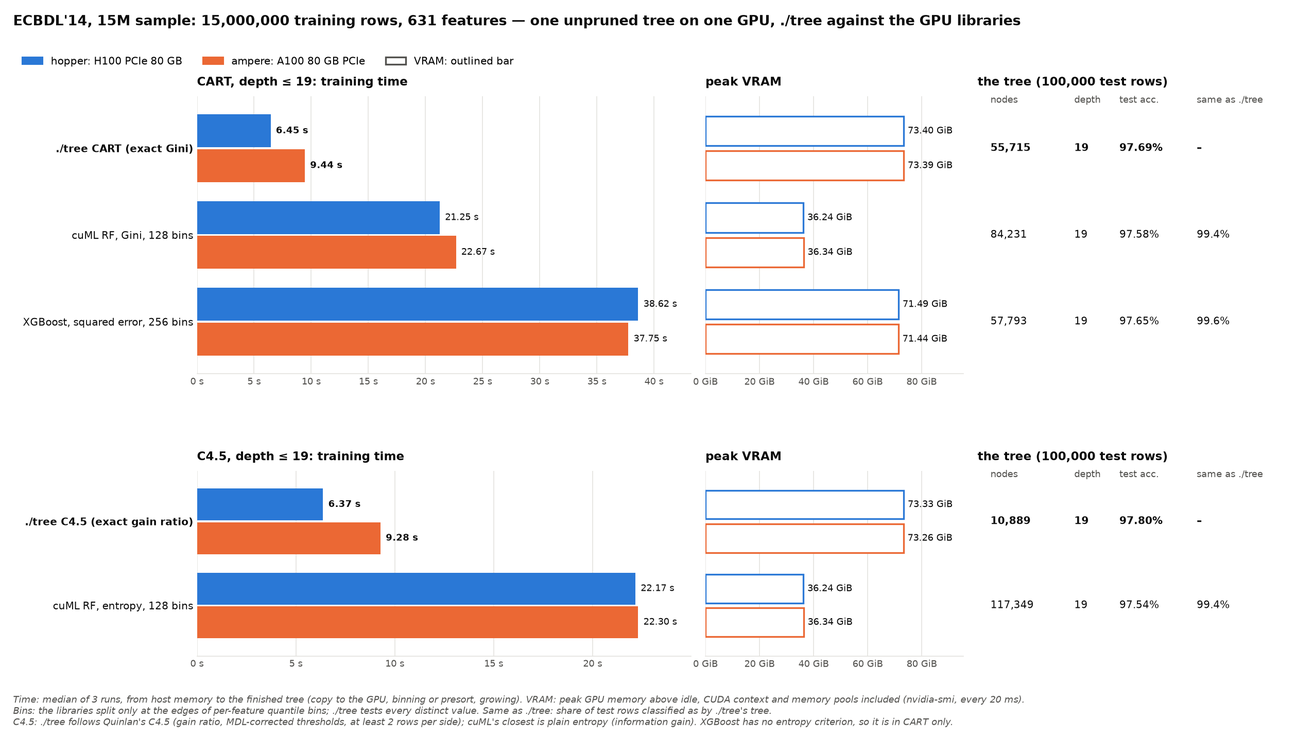
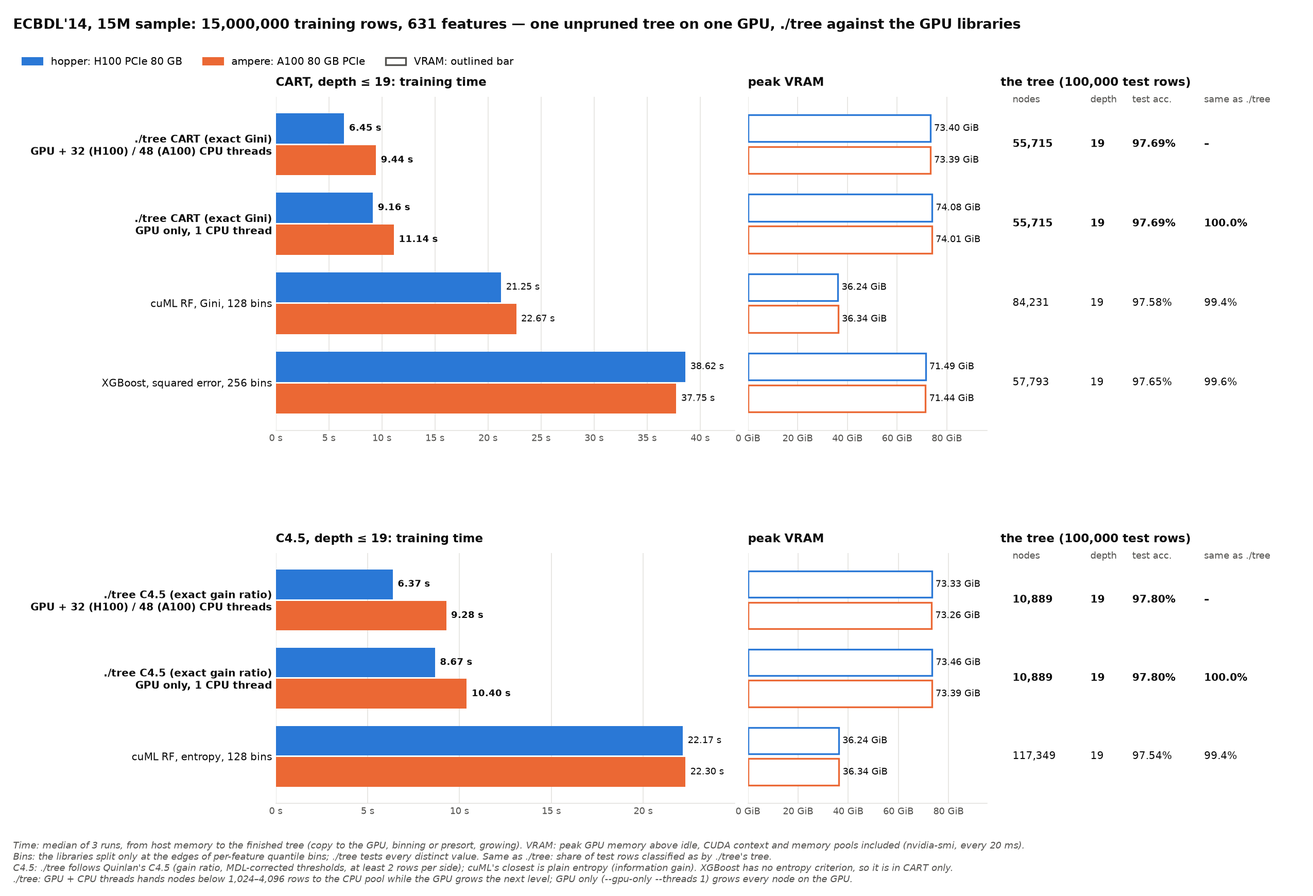
cluster-tree-vs-gpu-libs: ./tree GPU only (--gpu-only --threads 1) under ./tree
New rows on 7b51a89 for HIGGS, airline, ECBDL 15M and chess 1000M on hopper
and ampere; the existing rows were not rerun. Same trees, 1.1-2.5x slower than
GPU + 32/48 CPU threads. Charts and summary.csv regenerated.

diff --git a/bench/results/cluster-tree-vs-gpu-libs/scripts/summarize.py b/bench/results/cluster-tree-vs-gpu-libs/scripts/summarize.py
@@ -7,6 +7,9 @@
 
 Agreement: share of the test rows (TEST_ROWS) that a tree classifies like
 ./tree's tree of the same case on the same node.
+
+./tree has two rows: "tree" (the GPU with all the node's CPU threads, which
+finish the small nodes) and "tree_gpu" (--gpu-only --threads 1).
 """
 import csv, json, statistics, sys
 from pathlib import Path
@@ -24,12 +27,20 @@ DATASETS = {"higgs": "HIGGS: 10,500,000 training rows, 28 features",
 TEST_ROWS = {"higgs": 500_000, "airline": 500_000, "ecbdl_15m": 100_000, "chess_1b": 1_000}
 NODES = {"hopper": "H100 PCIe 80 GB", "ampere": "A100 80 GB PCIe"}
 CASES = {"cart": "CART, depth ≤ 19", "c45": "C4.5, depth ≤ 19"}
-LABELS = {("tree", "cart"): "./tree CART (exact Gini)",
+SPLIT = "GPU + 32 (H100) / 48 (A100) CPU threads"
+GPU_ONLY = "GPU only, 1 CPU thread"
+LABELS = {("tree", "cart"): f"./tree CART (exact Gini)\n{SPLIT}",
+          ("tree_gpu", "cart"): f"./tree CART (exact Gini)\n{GPU_ONLY}",
           ("cuml", "cart"): "cuML RF, Gini, 128 bins",
           ("xgboost", "cart"): "XGBoost, squared error, 256 bins",
-          ("tree", "c45"): "./tree C4.5 (exact gain ratio)",
+          ("tree", "c45"): f"./tree C4.5 (exact gain ratio)\n{SPLIT}",
+          ("tree_gpu", "c45"): f"./tree C4.5 (exact gain ratio)\n{GPU_ONLY}",
           ("cuml", "c45"): "cuML RF, entropy, 128 bins"}
-IMPLS = ["tree", "cuml", "xgboost"]
+IMPLS = ["tree", "tree_gpu", "cuml", "xgboost"]
+
+
+def is_tree(impl):
+    return impl.startswith("tree")
 INK, MUTED, GRID = "#0b0b0b", "#52514e", "#e4e3df"
 COLORS = {"hopper": "#2a78d6", "ampere": "#eb6834"}
 
@@ -48,7 +59,8 @@ def load_rows(root):
                 last = rs[-1]
                 times = [r["train_seconds"] for r in rs]
                 row = {"dataset": dataset, "node": node, "impl": impl, "case": case,
-                       "bins": last["bins"], "label": LABELS[(impl, case)], "runs": len(rs),
+                       "bins": last["bins"], "label": LABELS[(impl, case)].replace("\n", ", "),
+                       "runs": len(rs),
                        "median_s": statistics.median(times), "min_s": min(times),
                        "max_s": max(times),
                        **{k: last.get(k) for k in ("nodes", "depth", "train_accuracy",
@@ -88,7 +100,7 @@ def tables(rows):
                 def mem(r):
                     return "–" if r is None else f"{r['gpu_peak_mib'] / 1024:.2f} GiB"
                 agree = ref.get("agreement")
-                md.append(f"| {LABELS[(impl, case)]} | {t(h)} | {t(a)} | {ref['nodes']:,} | "
+                md.append(f"| {LABELS[(impl, case)].replace(chr(10), ', ')} | {t(h)} | {t(a)} | {ref['nodes']:,} | "
                           f"{ref['depth']} | {100 * ref['train_accuracy']:.2f}% | "
                           f"{100 * ref['test_accuracy']:.2f}% | "
                           f"{'–' if agree is None else f'{100 * agree:.2f}%'} | "
@@ -112,7 +124,7 @@ def chart(rows, dataset, path):
     the same on both GPUs)."""
     cases = [c for c in CASES if any(r["dataset"] == dataset and r["case"] == c for r in rows)]
     heights = [len([i for i in IMPLS if (i, c) in LABELS]) for c in cases]
-    fig = plt.figure(figsize=(17, 2.2 + 0.95 * sum(heights) + 1.3 * len(cases)))
+    fig = plt.figure(figsize=(17, 2.35 + 0.95 * sum(heights) + 1.3 * len(cases)))
     grid = fig.add_gridspec(len(cases), 3, width_ratios=(1.15, 0.6, 0.75), wspace=0.04,
                             hspace=0.42, height_ratios=heights)
     dr = [r for r in rows if r["dataset"] == dataset]
@@ -135,7 +147,7 @@ def chart(rows, dataset, path):
                 v = got[k]["median_s"]
                 ax.barh(p, v, height=0.38, color=COLORS[node])
                 ax.text(v + tmax * 0.012, p, f"{v:.2f} s", va="center", fontsize=8.5, color=INK,
-                        fontweight="bold" if k == "tree" else "normal")
+                        fontweight="bold" if is_tree(k) else "normal")
                 g = got[k]["gpu_peak_mib"] / 1024
                 mem.barh(p, g, height=0.34, facecolor="white", edgecolor=COLORS[node],
                          linewidth=1.6)
@@ -146,7 +158,7 @@ def chart(rows, dataset, path):
         style(ax)
         ax.set_yticks(y, [LABELS[(k, case)] for k in keys], fontsize=9.5, color=INK)
         for label, k in zip(ax.get_yticklabels(), keys):
-            label.set_fontweight("bold" if k == "tree" else "normal")
+            label.set_fontweight("bold" if is_tree(k) else "normal")
             label.set_color(INK)
         ax.set_title(f"{CASES[case]}: training time", loc="left", fontsize=11, color=INK,
                      fontweight="bold", pad=10)
@@ -170,7 +182,7 @@ def chart(rows, dataset, path):
             for k, p in zip(keys, y):
                 info.text(x, p, cell(got[k]), fontsize=9.5, color=INK, ha="left", va="center",
                           transform=info.get_yaxis_transform(),
-                          fontweight="bold" if k == "tree" else "normal")
+                          fontweight="bold" if is_tree(k) else "normal")
         info.set_title(f"the tree ({TEST_ROWS[dataset]:,} test rows)", loc="left", fontsize=11, color=INK,
                        fontweight="bold", pad=10)
         info.axis("off")
@@ -190,10 +202,12 @@ def chart(rows, dataset, path):
              "every distinct value. Same as ./tree: share of test rows classified as by ./tree's tree.\n"
              "C4.5: ./tree follows Quinlan's C4.5 (gain ratio, MDL-corrected thresholds, at least 2 rows "
              "per side); cuML's closest is plain entropy (information gain). XGBoost has no entropy "
-             "criterion, so it is in CART only.",
+             "criterion, so it is in CART only.\n./tree: GPU + CPU threads hands nodes below 1,024–4,096 "
+             "rows to the CPU pool while the GPU grows the next level; GPU only (--gpu-only --threads 1) "
+             "grows every node on the GPU.",
              fontsize=8.5, color=MUTED, style="italic", va="bottom")
-    fig.subplots_adjust(left=0.15, right=0.99, top=1 - 1.25 / fig.get_figheight(),
-                        bottom=1.05 / fig.get_figheight())
+    fig.subplots_adjust(left=0.21, right=0.99, top=1 - 1.25 / fig.get_figheight(),
+                        bottom=1.2 / fig.get_figheight())
     fig.savefig(path, dpi=150)
     plt.close(fig)
 

diff --git a/bench/results/cluster-tree-vs-gpu-libs/scripts/treebench.py b/bench/results/cluster-tree-vs-gpu-libs/scripts/treebench.py
@@ -3,9 +3,12 @@
 to OUT. The last run dumps the tree; its test predictions are saved for the
 agreement table.
 
-  treebench.py TREE DATASET CASE REPS OUT PRED_DIR SCRATCH
+  treebench.py TREE DATASET CASE REPS OUT PRED_DIR SCRATCH [MODE]
     DATASET  higgs | airline | ecbdl_15m | chess_1b   (prepared in $DATA_ROOT/<dataset>)
     CASE     cart | c45        depth <= 19, no pruning
+    MODE     split (default, impl "tree"): the GPU with all CPU threads, which
+             finish the small nodes; gpu (impl "tree_gpu"): --gpu-only
+             --threads 1, every node on the GPU and one CPU thread
 """
 import json, os, re, socket, subprocess, sys, time
 import numpy as np
@@ -15,6 +18,8 @@ from gpubench import DATA_ROOT, DEPTH, GpuMemory, load  # noqa: E402
 
 FLAGS = {"cart": ["--cart", "--no-prune", "-d", str(DEPTH)],
          "c45": ["--c45", "--no-prune", "-d", str(DEPTH)]}
+MODES = {"split": ("tree", lambda: ["--threads", str(os.cpu_count())]),
+         "gpu": ("tree_gpu", lambda: ["--gpu-only", "--threads", "1"])}
 
 
 def parse_dump(path):
@@ -63,18 +68,18 @@ def predict(tree, X):
 
 def main():
     binary, dataset, case, reps, out, pred_dir, scratch = sys.argv[1:8]
-    threads = str(os.cpu_count())
-    dump = f"{scratch}/tree-{case}.dump"
+    impl, mode_flags = MODES[sys.argv[8] if len(sys.argv) > 8 else "split"]
+    dump = f"{scratch}/{impl}-{case}.dump"
     for rep in range(int(reps)):
         last = rep == int(reps) - 1
-        argv = [binary, "--cuda", "--threads", threads] + FLAGS[case] \
+        argv = [binary, "--cuda"] + mode_flags() + FLAGS[case] \
             + (["--dump", dump] if last else []) + [f"{DATA_ROOT}/{dataset}/train.csv"]
         gpu = GpuMemory()
         stdout = subprocess.run(argv, capture_output=True, text=True, check=True).stdout
         peak = gpu.stop()
         nodes, leaves, depth = map(int, re.search(r"nodes (\d+), leaves (\d+), depth (\d+)",
                                                   stdout).groups())
-        row = {"impl": "tree", "dataset": dataset, "case": case, "bins": "exact", "rep": rep,
+        row = {"impl": impl, "dataset": dataset, "case": case, "bins": "exact", "rep": rep,
                "train_seconds": float(re.search(r"train total\s+([\d.]+) ms", stdout).group(1)) / 1000,
                **{f"{k.replace(' ', '_')}_seconds": float(ms) / 1000 for k, ms in
                   re.findall(r"^  (gpu setup|presort|build|prune)\s+([\d.]+) ms$", stdout, re.M)},
@@ -86,7 +91,7 @@ def main():
             tree = parse_dump(dump)
             Xt, yt = load(dataset, "test")
             pred = predict(tree, Xt).astype(np.int8)
-            np.save(f"{pred_dir}/tree-{case}.npy", pred)
+            np.save(f"{pred_dir}/{impl}-{case}.npy", pred)
             row["test_accuracy"] = float(np.mean(pred == yt))
             f, t = tree[0][0], tree[1][0]
             row["root"] = f"f{f} <= {t:.7g}"

diff --git a/bench/results/cluster-tree-vs-gpu-libs/BENCHMARK.md b/bench/results/cluster-tree-vs-gpu-libs/BENCHMARK.md
@@ -1,6 +1,6 @@
 # HIGGS, airline, ECBDL'14 and chess 1000M on the mordor3 GPUs: ./tree against other GPU decision-tree builders
 
-**Status:** run on 2026-10-17, 3 runs per case. The libraries ran from 12:44 with ./tree at commit 00ae13f; **./tree's rows were rerun on 2026-10-19 (20:12–20:15) on 6f6cecb** (one copy of the presorted columns on the GPU, [docs/PERFORMANCE.md](../../../docs/PERFORMANCE.md); hand-offs through page-locked buffers instead of a page-locked arena; the host partition in blocks, d9da007), built for sm_80 and sm_90 in a separate clone (`~/gpu-dt-bench/dt`). The trees are the same as before, node for node, and so are the test predictions; `machine.json` → `tree_rerun` records the rerun. Against the previous rerun (cd18717, 2026-10-17 17:54) ./tree's times moved within −3.5% to +2.3%. Both GPU servers ran CUDA only, on GPU 0, with the whole node held through `--exclusive`. **ECBDL'14's 15M-row sample was added on 2026-10-18** (15:19–15:27, one job per node, the libraries with ./tree on cd18717 in the same job, 3 runs per case; ./tree's rows rerun with the others on 051949b). **Chess 3×3 with 1000M rows was added on 2026-10-19** (21:42–21:53, one job per node, everything in the same job, ./tree on f00ab72, the same code as 6f6cecb; 3 runs per case). **One unpruned tree with depth ≤ 19 per case, CART and C4.5, on HIGGS, airline, ECBDL and chess.** 19 is the depth of ./tree's pruned CART tree on HIGGS. Each library runs with its default bins, its faster setting; the earlier 1024-bin runs were slower and agreed with ./tree only 1–2 points more.
+**Status:** run on 2026-10-17, 3 runs per case. The libraries ran from 12:44 with ./tree at commit 00ae13f; **./tree's rows were rerun on 2026-10-19 (20:12–20:15) on 6f6cecb** (one copy of the presorted columns on the GPU, [docs/PERFORMANCE.md](../../../docs/PERFORMANCE.md); hand-offs through page-locked buffers instead of a page-locked arena; the host partition in blocks, d9da007), built for sm_80 and sm_90 in a separate clone (`~/gpu-dt-bench/dt`). The trees are the same as before, node for node, and so are the test predictions; `machine.json` → `tree_rerun` records the rerun. Against the previous rerun (cd18717, 2026-10-17 17:54) ./tree's times moved within −3.5% to +2.3%. Both GPU servers ran CUDA only, on GPU 0, with the whole node held through `--exclusive`. **ECBDL'14's 15M-row sample was added on 2026-10-18** (15:19–15:27, one job per node, the libraries with ./tree on cd18717 in the same job, 3 runs per case; ./tree's rows rerun with the others on 051949b). **Chess 3×3 with 1000M rows was added on 2026-10-19** (21:42–21:53, one job per node, everything in the same job, ./tree on f00ab72, the same code as 6f6cecb; 3 runs per case). **./tree GPU only (`--gpu-only --threads 1`) was added on 2026-10-19** (22:08–22:48, one job per node, all four datasets, 3 runs per case, ./tree on 7b51a89; the other rows were not rerun; `machine.json` → `tree_gpu_run`): the row under ./tree's in every table and chart, which is now labelled GPU + 32 (H100) / 48 (A100) CPU threads. **One unpruned tree with depth ≤ 19 per case, CART and C4.5, on HIGGS, airline, ECBDL and chess.** 19 is the depth of ./tree's pruned CART tree on HIGGS. Each library runs with its default bins, its faster setting; the earlier 1024-bin runs were slower and agreed with ./tree only 1–2 points more.
 
 **Bottom line:** ./tree is the fastest single-tree GPU builder found, and the only one with exact splits.
 - **Against cuML (the fastest of the others):** 2.4–2.7× faster on HIGGS, 2.7–3.7× on airline, 2.4–3.5× on ECBDL and 7.0–10.3× on chess 1000M, for CART and for C4.5 against cuML's entropy tree.
@@ -8,6 +8,7 @@
 - **Chess 1000M (2 features, 10^9 rows):** ./tree builds the exact 17-node board tree in 0.90 s (H100) and 1.76 s (A100) with 25.4 GiB of VRAM; cuML takes 9.3 and 12.5 s, XGBoost 106 and 138 s, both with 42–44 GiB, and their binned trees fill all 19 levels (1,009–1,919 nodes) at 98.4–99.4% test accuracy.
 - **CART test accuracy is the same within 0.3 points.** The histogram trees classify 83–91% of test rows the same as ./tree's exact tree on HIGGS and airline, 99.4–99.6% on ECBDL (mostly its 97.8% majority class).
 - **C4.5 is a different algorithm from cuML's entropy tree.** ./tree's C4.5 (gain ratio) builds a smaller tree at the same depth limit, with 1.2–3.1 points lower test accuracy (below).
+- **GPU only, 1 CPU thread** (`--gpu-only --threads 1`, every node on the GPU): the same trees, node for node (100% the same test predictions), 1.1–2.5× slower than with the CPU threads, and still 1.5–4.5× faster than cuML.
 - **Memory:** ./tree uses 3.3–3.4 GiB on HIGGS and 13.3 GiB on airline, against 1.9–2.9 GiB and 9.5–13 GiB for the libraries: 1.8× cuML on HIGGS, 1.3–1.4× cuML and about the same as XGBoost on airline. Before cd18717 it used 7.2 and 35 GiB. On ECBDL ./tree fills 73.3–73.4 GiB of the 80 GB, against 36 GiB for cuML and 71.5 GiB for XGBoost.
 
 ![HIGGS: CART and C4.5 per GPU library, depth 19](chart-higgs.png)
@@ -69,7 +70,8 @@ Median of 3 runs (min–max). The node count, depth and accuracies are for the l
 
 | Implementation | H100 time | A100 time | Nodes | Depth | Train acc. | Test acc. | Same as ./tree | VRAM H100 | VRAM A100 | Root split |
 |---|--:|--:|--:|--:|--:|--:|--:|--:|--:|---|
-| ./tree CART (exact Gini) | 0.35 s (0.35–0.37) | 0.45 s (0.44–0.53) | 302,341 | 19 | 77.85% | 71.74% | – | 3.36 GiB | 3.33 GiB | `f25 <= 1.077748` |
+| ./tree CART (exact Gini), GPU + 32 (H100) / 48 (A100) CPU threads | 0.35 s (0.35–0.37) | 0.45 s (0.44–0.53) | 302,341 | 19 | 77.85% | 71.74% | – | 3.36 GiB | 3.33 GiB | `f25 <= 1.077748` |
+| ./tree CART (exact Gini), GPU only, 1 CPU thread | 0.57 s (0.57–0.58) | 0.74 s (0.73–0.74) | 302,341 | 19 | 77.85% | 71.74% | 100.00% | 3.71 GiB | 3.67 GiB | `f25 <= 1.077748` |
 | cuML RF, Gini, 128 bins | 0.94 s (0.88–1.89) | 1.08 s (1.07–2.09) | 342,393 | 19 | 77.78% | 71.70% | 83.12% | 1.85 GiB | 1.91 GiB | `f25 <= 1.080328` |
 | XGBoost, squared error, 256 bins | 5.41 s (5.13–5.70) | 6.02 s (5.99–6.16) | 319,733 | 19 | 77.79% | 71.64% | 83.95% | 2.90 GiB | 2.86 GiB | `f25 < 1.075816` |
 
@@ -77,14 +79,16 @@ Median of 3 runs (min–max). The node count, depth and accuracies are for the l
 
 | Implementation | H100 time | A100 time | Nodes | Depth | Train acc. | Test acc. | Same as ./tree | VRAM H100 | VRAM A100 | Root split |
 |---|--:|--:|--:|--:|--:|--:|--:|--:|--:|---|
-| ./tree C4.5 (exact gain ratio) | 0.32 s (0.32–0.33) | 0.40 s (0.40–0.40) | 84,695 | 19 | 70.43% | 68.65% | – | 3.33 GiB | 3.30 GiB | `f25 <= 1.837873` |
+| ./tree C4.5 (exact gain ratio), GPU + 32 (H100) / 48 (A100) CPU threads | 0.32 s (0.32–0.33) | 0.40 s (0.40–0.40) | 84,695 | 19 | 70.43% | 68.65% | – | 3.33 GiB | 3.30 GiB | `f25 <= 1.837873` |
+| ./tree C4.5 (exact gain ratio), GPU only, 1 CPU thread | 0.45 s (0.45–0.45) | 0.56 s (0.56–0.57) | 84,695 | 19 | 70.43% | 68.65% | 100.00% | 3.52 GiB | 3.49 GiB | `f25 <= 1.837873` |
 | cuML RF, entropy, 128 bins | 0.87 s (0.87–1.76) | 1.03 s (1.03–2.02) | 292,477 | 19 | 76.73% | 71.76% | 76.72% | 1.85 GiB | 1.91 GiB | `f25 <= 1.080328` |
 
 ### airline: CART, depth ≤ 19
 
 | Implementation | H100 time | A100 time | Nodes | Depth | Train acc. | Test acc. | Same as ./tree | VRAM H100 | VRAM A100 | Root split |
 |---|--:|--:|--:|--:|--:|--:|--:|--:|--:|---|
-| ./tree CART (exact Gini) | 1.21 s (1.19–1.21) | 1.73 s (1.70–1.73) | 621,689 | 19 | 75.31% | 74.88% | – | 13.30 GiB | 13.28 GiB | `f8 <= 70.5` |
+| ./tree CART (exact Gini), GPU + 32 (H100) / 48 (A100) CPU threads | 1.21 s (1.19–1.21) | 1.73 s (1.70–1.73) | 621,689 | 19 | 75.31% | 74.88% | – | 13.30 GiB | 13.28 GiB | `f8 <= 70.5` |
+| ./tree CART (exact Gini), GPU only, 1 CPU thread | 1.63 s (1.62–1.64) | 2.07 s (2.06–2.07) | 621,689 | 19 | 75.31% | 74.88% | 100.00% | 13.68 GiB | 13.62 GiB | `f8 <= 70.5` |
 | cuML RF, Gini, 128 bins | 4.23 s (4.20–8.23) | 4.67 s (4.67–8.56) | 655,631 | 19 | 75.00% | 74.59% | 86.80% | 9.99 GiB | 9.45 GiB | `f8 <= 70` |
 | XGBoost, squared error, 256 bins | 20.40 s (20.21–20.58) | 24.69 s (24.54–24.85) | 641,161 | 19 | 75.20% | 74.76% | 90.80% | 13.00 GiB | 12.96 GiB | `f8 < 71` |
 
@@ -92,14 +96,16 @@ Median of 3 runs (min–max). The node count, depth and accuracies are for the l
 
 | Implementation | H100 time | A100 time | Nodes | Depth | Train acc. | Test acc. | Same as ./tree | VRAM H100 | VRAM A100 | Root split |
 |---|--:|--:|--:|--:|--:|--:|--:|--:|--:|---|
-| ./tree C4.5 (exact gain ratio) | 1.14 s (1.12–1.14) | 1.65 s (1.64–1.66) | 190,337 | 19 | 73.15% | 73.02% | – | 13.27 GiB | 13.25 GiB | `f8 <= 70` |
+| ./tree C4.5 (exact gain ratio), GPU + 32 (H100) / 48 (A100) CPU threads | 1.14 s (1.12–1.14) | 1.65 s (1.64–1.66) | 190,337 | 19 | 73.15% | 73.02% | – | 13.27 GiB | 13.25 GiB | `f8 <= 70` |
+| ./tree C4.5 (exact gain ratio), GPU only, 1 CPU thread | 1.62 s (1.60–1.64) | 2.05 s (2.04–2.05) | 190,337 | 19 | 73.15% | 73.02% | 100.00% | 13.49 GiB | 13.47 GiB | `f8 <= 70` |
 | cuML RF, entropy, 128 bins | 4.18 s (4.12–6.88) | 4.59 s (4.58–8.55) | 555,457 | 19 | 74.58% | 74.26% | 84.98% | 9.47 GiB | 9.95 GiB | `f8 <= 70` |
 
 ### ECBDL'14 15M sample: CART, depth ≤ 19
 
 | Implementation | H100 time | A100 time | Nodes | Depth | Train acc. | Test acc. | Same as ./tree | VRAM H100 | VRAM A100 | Root split |
 |---|--:|--:|--:|--:|--:|--:|--:|--:|--:|---|
-| ./tree CART (exact Gini) | 6.45 s (6.38–6.96) | 9.44 s (9.38–9.45) | 55,715 | 19 | 98.22% | 97.69% | – | 73.40 GiB | 73.39 GiB | `f0 <= 40.5` |
+| ./tree CART (exact Gini), GPU + 32 (H100) / 48 (A100) CPU threads | 6.45 s (6.38–6.96) | 9.44 s (9.38–9.45) | 55,715 | 19 | 98.22% | 97.69% | – | 73.40 GiB | 73.39 GiB | `f0 <= 40.5` |
+| ./tree CART (exact Gini), GPU only, 1 CPU thread | 9.16 s (9.02–9.72) | 11.14 s (11.11–11.16) | 55,715 | 19 | 98.22% | 97.69% | 100.00% | 74.08 GiB | 74.01 GiB | `f0 <= 40.5` |
 | cuML RF, Gini, 128 bins | 21.25 s (20.87–41.51) | 22.67 s (21.63–53.83) | 84,231 | 19 | 81.08%* | 97.58% | 99.38% | 36.24 GiB | 36.34 GiB | `f0 <= 40` |
 | XGBoost, squared error, 256 bins | 38.62 s (38.03–40.60) | 37.75 s (37.38–38.48) | 57,793 | 19 | 98.23% | 97.65% | 99.58% | 71.49 GiB | 71.44 GiB | `f0 < 41` |
 
@@ -107,7 +113,8 @@ Median of 3 runs (min–max). The node count, depth and accuracies are for the l
 
 | Implementation | H100 time | A100 time | Nodes | Depth | Train acc. | Test acc. | Same as ./tree | VRAM H100 | VRAM A100 | Root split |
 |---|--:|--:|--:|--:|--:|--:|--:|--:|--:|---|
-| ./tree C4.5 (exact gain ratio) | 6.37 s (6.32–6.39) | 9.28 s (9.22–9.30) | 10,889 | 19 | 97.93% | 97.80% | – | 73.33 GiB | 73.26 GiB | `f34 <= 0` |
+| ./tree C4.5 (exact gain ratio), GPU + 32 (H100) / 48 (A100) CPU threads | 6.37 s (6.32–6.39) | 9.28 s (9.22–9.30) | 10,889 | 19 | 97.93% | 97.80% | – | 73.33 GiB | 73.26 GiB | `f34 <= 0` |
+| ./tree C4.5 (exact gain ratio), GPU only, 1 CPU thread | 8.67 s (8.40–8.69) | 10.40 s (10.05–10.43) | 10,889 | 19 | 97.93% | 97.80% | 100.00% | 73.46 GiB | 73.39 GiB | `f34 <= 0` |
 | cuML RF, entropy, 128 bins | 22.17 s (20.64–44.37) | 22.30 s (21.34–50.08) | 117,349 | 19 | 91.18%* | 97.54% | 99.39% | 36.24 GiB | 36.34 GiB | `f0 <= 54` |
 
 \* cuML's `predict` on all 15M training rows at once overflows (Observations); in 1M-row chunks: 98.31% (CART), 98.27% (entropy).
@@ -116,7 +123,8 @@ Median of 3 runs (min–max). The node count, depth and accuracies are for the l
 
 | Implementation | H100 time | A100 time | Nodes | Depth | Train acc. | Test acc. | Same as ./tree | VRAM H100 | VRAM A100 | Root split |
 |---|--:|--:|--:|--:|--:|--:|--:|--:|--:|---|
-| ./tree CART (exact Gini) | 0.90 s (0.90–0.92) | 1.76 s (1.72–1.80) | 17 | 4 | 100.00% | 100.00% | – | 25.43 GiB | 25.41 GiB | `f1 <= 1.999985` |
+| ./tree CART (exact Gini), GPU + 32 (H100) / 48 (A100) CPU threads | 0.90 s (0.90–0.92) | 1.76 s (1.72–1.80) | 17 | 4 | 100.00% | 100.00% | – | 25.43 GiB | 25.41 GiB | `f1 <= 1.999985` |
+| ./tree CART (exact Gini), GPU only, 1 CPU thread | 2.27 s (2.26–2.30) | 2.74 s (2.73–2.77) | 17 | 4 | 100.00% | 100.00% | 100.00% | 25.43 GiB | 25.41 GiB | `f1 <= 1.999985` |
 | cuML RF, Gini, 128 bins | 9.27 s (9.25–15.05) | 12.45 s (12.44–19.34) | 1,009 | 19 | 98.50% | 98.40% | 98.40% | 42.40 GiB | 42.37 GiB | `f0 <= 2.002869` |
 | XGBoost, squared error, 256 bins | 105.80 s (105.70–108.31) | 138.46 s (137.91–138.66) | 1,919 | 19 | 99.48% | 99.40% | 99.40% | 43.54 GiB | 43.49 GiB | `f1 < 2.003876` |
 
@@ -124,7 +132,8 @@ Median of 3 runs (min–max). The node count, depth and accuracies are for the l
 
 | Implementation | H100 time | A100 time | Nodes | Depth | Train acc. | Test acc. | Same as ./tree | VRAM H100 | VRAM A100 | Root split |
 |---|--:|--:|--:|--:|--:|--:|--:|--:|--:|---|
-| ./tree C4.5 (exact gain ratio) | 0.92 s (0.91–0.92) | 1.78 s (1.77–1.79) | 17 | 4 | 100.00% | 100.00% | – | 25.43 GiB | 25.42 GiB | `f1 <= 1.999939` |
+| ./tree C4.5 (exact gain ratio), GPU + 32 (H100) / 48 (A100) CPU threads | 0.92 s (0.91–0.92) | 1.78 s (1.77–1.79) | 17 | 4 | 100.00% | 100.00% | – | 25.43 GiB | 25.42 GiB | `f1 <= 1.999939` |
+| ./tree C4.5 (exact gain ratio), GPU only, 1 CPU thread | 2.28 s (2.26–2.30) | 2.77 s (2.76–2.78) | 17 | 4 | 100.00% | 100.00% | 100.00% | 25.43 GiB | 25.42 GiB | `f1 <= 1.999939` |
 | cuML RF, entropy, 128 bins | 9.25 s (9.21–14.81) | 12.49 s (12.49–17.80) | 1,013 | 19 | 98.50% | 98.40% | 98.40% | 42.40 GiB | 42.37 GiB | `f0 <= 2.002869` |
 
 ## Observations
@@ -158,6 +167,10 @@ Median of 3 runs (min–max). The node count, depth and accuracies are for the l
   - **VRAM:** ./tree 25.4 GiB (as in cluster-chess), cuML 42.4 GiB, XGBoost 43.5 GiB: on 2 features, the libraries' copies of the 8 GB float32 matrix outweigh ./tree's presorted columns.
   - **The H100 helps ./tree 2×** (1.76 → 0.90 s), cuML 1.3× and XGBoost 1.3×. cuML's first full-size fit took 15.1 s (H100) and 19.3 s (A100); the medians leave it out.
   - **XGBoost's accuracy pass** predicts the 10^9 training rows in 10M-row chunks (`gpubench.py`); this is outside the timed fit.
+- **./tree, GPU only against GPU + CPU threads** (`--gpu-only --threads 1` against the split default, where nodes below 1,024–4,096 rows go to the CPU pool):
+  - **Time, H100 / A100:** HIGGS CART 0.57 / 0.74 s against 0.35 / 0.45 s, C4.5 0.45 / 0.56 against 0.32 / 0.40 s; airline CART 1.63 / 2.07 against 1.21 / 1.73 s, C4.5 1.62 / 2.05 against 1.14 / 1.65 s; ECBDL CART 9.16 / 11.14 against 6.45 / 9.44 s, C4.5 8.67 / 10.40 against 6.37 / 9.28 s; chess CART 2.27 / 2.74 against 0.90 / 1.76 s, C4.5 2.28 / 2.77 against 0.92 / 1.78 s.
+  - **Where it goes:** the GPU's deep levels of small nodes (HIGGS build 0.24 → 0.45 s, CART, H100), and the host work that now runs on one thread: the staged upload (gpu setup 0.21 → 0.46 s on airline, 0.73 → 2.56 s on ECBDL, H100) and the class counts of the root. Chess's tree (17 nodes) has no small nodes to hand off, so its 1.4 s more on the H100 (setup 0.21 → 0.69 s, build 0.58 → 1.47 s) are host work over the 10⁹ rows on one thread (not profiled further).
+  - **Same trees,** same node counts and test predictions on both GPUs. **VRAM** up to 0.7 GiB more (HIGGS 3.7 against 3.4 GiB, ECBDL 74.1 against 73.4 GiB, chess the same): the deeper GPU levels' buffers. The host arena for the hand-offs (8 bytes per value, 75 GB on ECBDL) is not allocated.
 - **Memory:** ./tree peaks at 3.3–3.4 GiB on HIGGS and 13.3 GiB on airline: one copy of the presorted columns (8 bytes per value) plus one spare column, a 512 MB hand-off ring and the CUDA context ([docs/CUDA.md](../../../docs/CUDA.md)). cuML uses 1.9 and 9.5–10 GiB, XGBoost 2.9 and 13 GiB. The libraries split on histogram bins and keep no presorted columns, so they need less; ./tree keeps every exact value with its row.
 - **./tree on 6f6cecb against 051949b** (the previous rerun, 2026-10-19 afternoon): 6–16% faster with the same trees. HIGGS CART 0.40 → 0.35 s (H100) and 0.48 → 0.45 s (A100), C4.5 0.36 → 0.32 and 0.44 → 0.40 s; airline CART 1.39 → 1.21 and 1.98 → 1.73 s, C4.5 1.30 → 1.14 and 1.93 → 1.65 s; ECBDL CART 7.55 → 6.45 and 11.23 → 9.44 s, C4.5 7.58 → 6.37 and 11.10 → 9.28 s. These runs use no α, so 051949b page-locked the whole host arena (CART with a fixed α page-locked only what it needed), which held up the GPU loop.
 - **./tree on cd18717 against 00ae13f** (the libraries' run, earlier the same day): the GPU memory peak fell from 7.2 to 3.4 GiB (HIGGS) and from 35.0 to 13.3 GiB (airline), 53–62% less, with the same trees. Times moved within −5% to +3% (H100 HIGGS CART 0.39 → 0.39 s, A100 HIGGS C4.5 0.47 → 0.44 s, H100 airline CART 1.37 → 1.38 s and C4.5 1.30 → 1.32 s).
@@ -180,6 +193,8 @@ sbatch build.sh                              # ./tree for sm_80 + sm_90
 # the benchmark: about 4 min per node for HIGGS and airline (the default)
 # only some: IMPLS="cuml xgboost" DATASETS=airline sbatch --export=ALL ... job.sh <node>
 # ECBDL (about 8 min per node): DATASETS=ecbdl_15m sbatch --export=ALL -p hopper --exclusive -t 06:00:00 -o results/hopper-ecbdl_15m.log job.sh hopper
+# ./tree GPU only, every dataset (about 25 min per node; the single-threaded CSV load is most of it):
+#   IMPLS=tree_gpu DATASETS="higgs airline ecbdl_15m chess_1b" sbatch --export=ALL -p hopper --exclusive -t 03:00:00 -o results/hopper-tree_gpu.log job.sh hopper
 # chess 1000M (about 8 min on hopper, 10 on ampere; XGBoost is most of it): DATASETS=chess_1b sbatch --export=ALL -p hopper --exclusive -t 01:30:00 -o results/hopper-chess_1b.log job.sh hopper
 sbatch -p hopper --exclusive -t 03:00:00 -o results/hopper.log job.sh hopper
 sbatch -p ampere --exclusive -t 03:00:00 -o results/ampere.log job.sh ampere
@@ -191,7 +206,7 @@ Then, anywhere with numpy and matplotlib, the tables (`tables.md`), `summary.csv
 venv/bin/python summarize.py results <out dir>
 ```
 
-- **Results and logs:** the jobs write `results/<dataset>/<node>/results.jsonl` (one line per timed run), `machine.json`, and `failed.jsonl` (cases that crashed, if any). `results.jsonl` and `machine.json` are in `higgs/`, `airline/`, `ecbdl_15m/` and `chess_1b/` here. The job logs stay on mordor3 (`~/gpu-dt-bench/results/<node>.log`, `<node>-ecbdl_15m.log`, `<node>-chess_1b.log`).
+- **Results and logs:** the jobs write `results/<dataset>/<node>/results.jsonl` (one line per timed run), `machine.json`, and `failed.jsonl` (cases that crashed, if any). `results.jsonl` and `machine.json` are in `higgs/`, `airline/`, `ecbdl_15m/` and `chess_1b/` here. The job logs stay on mordor3 (`~/gpu-dt-bench/results/<node>.log`, `<node>-ecbdl_15m.log`, `<node>-chess_1b.log`, `<node>-tree_gpu.log`).
 - **Predictions:** the test-set predictions in `results/<dataset>/<node>/pred/` (0.5 MB per tree, ECBDL 0.1 MB, chess 1 kB) are not kept in the repository.
 - **Never `scancel` a running `job.sh` started without `timeout --foreground`.** `timeout` puts the benchmark in its own process group, and SLURM's kill on mordor3 left it running, which happened once here. `job.sh` uses `--foreground`. To stop a case, kill it from inside the job: `srun --jobid=<id> --overlap -n1 kill <pid>`.
 - **What was replaced:** this directory was `cluster-higgs-vs-gpu-libs`: HIGGS only, CART only, depth 12 and 19, with 1024-bin runs of both libraries (commit 35cf315, 2026-10-15). Those results are in the git history. The first run of that version also covered LightGBM, which was dropped because its CUDA version ignores the depth limit.
